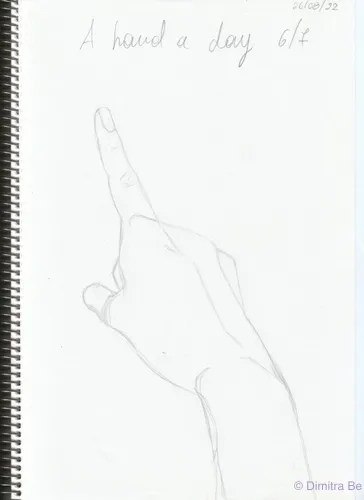
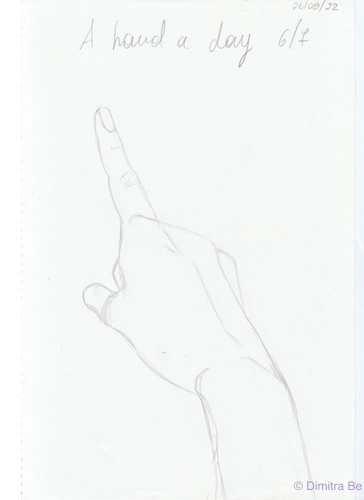
Added new posts and corresponding media files.

Changed region(s): [[0.0, 0.0, 0.0604, 1.0]]

diff --git a/src/content/blog/abstract-sea-with-golden-bubbles-acrylic-paint-on-paper-27x28.md b/src/content/blog/abstract-sea-with-golden-bubbles-acrylic-paint-on-paper-27x28.md
@@ -1,0 +1,9 @@
+---
+title: 'Abstract Sea With Golden Bubbles'
+description: 'Acrylic, Paint, On, Paper, 27x28cm'
+pubDate: '2026-04-09'
+heroImage: '../../assets/paintings/abstract-sea-with-golden-bubbles__acrylic-paint-on-paper-27x28.webp'
+category: 'paintings'
+---
+
+Acrylic, Paint, On, Paper, 27x28cm

diff --git a/src/content/blog/protest-collage-acrylic-and-fabric-on-canvas-30x30.md b/src/content/blog/protest-collage-acrylic-and-fabric-on-canvas-30x30.md
@@ -1,0 +1,9 @@
+---
+title: 'Protest'
+description: 'Collage, Acrylic, And, Fabric, On, Canvas, 30x30cm'
+pubDate: '2020-04-23'
+heroImage: '../../assets/paintings/Protest__collage-acrylic-and-fabric-on-canvas-30x30.webp'
+category: 'paintings'
+---
+
+Collage, Acrylic, And, Fabric, On, Canvas, 30x30cm

diff --git a/src/content/blog/recomposition-aphrodite-and-the-apple-acrylic-on-paper-60x50.md b/src/content/blog/recomposition-aphrodite-and-the-apple-acrylic-on-paper-60x50.md
@@ -1,0 +1,9 @@
+---
+title: 'Recomposition Aphrodite And The Apple'
+description: 'Acrylic, On, Paper, 60x50cm'
+pubDate: '2025-11-23'
+heroImage: '../../assets/paintings/Recomposition-Aphrodite-and-the-apple__acrylic-on-paper-60x50.webp'
+category: 'paintings'
+---
+
+Acrylic, On, Paper, 60x50cm

diff --git a/src/content/blog/pollock-meets-kushama-acrylic-on-canvas-50x70.md b/src/content/blog/pollock-meets-kushama-acrylic-on-canvas-50x70.md
@@ -1,0 +1,9 @@
+---
+title: 'Pollock Meets Kushama'
+description: 'Acrylic, On, Canvas, 50x70cm'
+pubDate: '2020-04-23'
+heroImage: '../../assets/paintings/Pollock-meets-Kushama__acrylic-on-canvas-50x70.webp'
+category: 'paintings'
+---
+
+Acrylic, On, Canvas, 50x70cm

diff --git a/src/content/blog/abstract-sea-acrylic-paint-on-paper-27x28.md b/src/content/blog/abstract-sea-acrylic-paint-on-paper-27x28.md
@@ -1,0 +1,9 @@
+---
+title: 'Abstract Sea'
+description: 'Acrylic, Paint, On, Paper, 27x28cm'
+pubDate: '2026-04-09'
+heroImage: '../../assets/paintings/abstract-sea__acrylic-paint-on-paper-27x28.webp'
+category: 'paintings'
+---
+
+Acrylic, Paint, On, Paper, 27x28cm

diff --git a/src/content/blog/study-on-white-acrylic-on-cartoline-40x30.md b/src/content/blog/study-on-white-acrylic-on-cartoline-40x30.md
@@ -1,0 +1,9 @@
+---
+title: 'Study On White'
+description: 'Acrylic, On, Cartoline, 40x30cm'
+pubDate: '2024-04-23'
+heroImage: '../../assets/paintings/Study-on-white__acrylic-on-cartoline-40x30.webp'
+category: 'paintings'
+---
+
+Acrylic, On, Cartoline, 40x30cm

diff --git a/src/content/blog/study-on-łempicka-acrylic-on-canvas-40x50.md b/src/content/blog/study-on-łempicka-acrylic-on-canvas-40x50.md
@@ -1,0 +1,9 @@
+---
+title: 'Study On Łempicka'
+description: 'Acrylic, On, Canvas, 40x50cm'
+pubDate: '2025-12-23'
+heroImage: '../../assets/paintings/Study-on-Łempicka__acrylic-on-canvas-40x50.webp'
+category: 'paintings'
+---
+
+Acrylic, On, Canvas, 40x50cm

diff --git a/src/content/blog/study-on-macke-acrylic-on-canvas-40x40.md b/src/content/blog/study-on-macke-acrylic-on-canvas-40x40.md
@@ -1,0 +1,9 @@
+---
+title: 'Study On Macke'
+description: 'Acrylic, On, Canvas, 40x40cm'
+pubDate: '2024-04-23'
+heroImage: '../../assets/paintings/study-on-Macke__acrylic-on-canvas-40x40.webp'
+category: 'paintings'
+---
+
+Acrylic, On, Canvas, 40x40cm

diff --git a/src/content/blog/the-touch-acrylic-on-cartoline-40x30.md b/src/content/blog/the-touch-acrylic-on-cartoline-40x30.md
@@ -1,0 +1,9 @@
+---
+title: 'The Touch'
+description: 'Acrylic, On, Cartoline, 40x30cm'
+pubDate: '2024-04-23'
+heroImage: '../../assets/paintings/The-touch__acrylic-on-cartoline-40x30.webp'
+category: 'paintings'
+---
+
+Acrylic, On, Cartoline, 40x30cm

diff --git a/src/content/blog/the-sea-inside-her-collage-a4.md b/src/content/blog/the-sea-inside-her-collage-a4.md
@@ -1,0 +1,9 @@
+---
+title: 'The Sea Inside Her'
+description: 'Collage, A4'
+pubDate: '2026-03-20'
+heroImage: '../../assets/paintings/The-Sea-inside-her__collage-A4.webp'
+category: 'paintings'
+---
+
+Collage, A4

diff --git a/src/content/blog/book-lovers-collage-19x26.md b/src/content/blog/book-lovers-collage-19x26.md
@@ -1,0 +1,9 @@
+---
+title: 'Book Lovers'
+description: 'Collage, 19x26cm'
+pubDate: '2020-04-23'
+heroImage: '../../assets/paintings/book-lovers__collage-19x26.webp'
+category: 'paintings'
+---
+
+Collage, 19x26cm

diff --git a/src/content/blog/tree-collage-26x34.md b/src/content/blog/tree-collage-26x34.md
@@ -1,0 +1,9 @@
+---
+title: 'Tree'
+description: 'Collage, 26x34cm'
+pubDate: '2020-04-20'
+heroImage: '../../assets/paintings/tree__collage-26x34.webp'
+category: 'paintings'
+---
+
+Collage, 26x34cm
